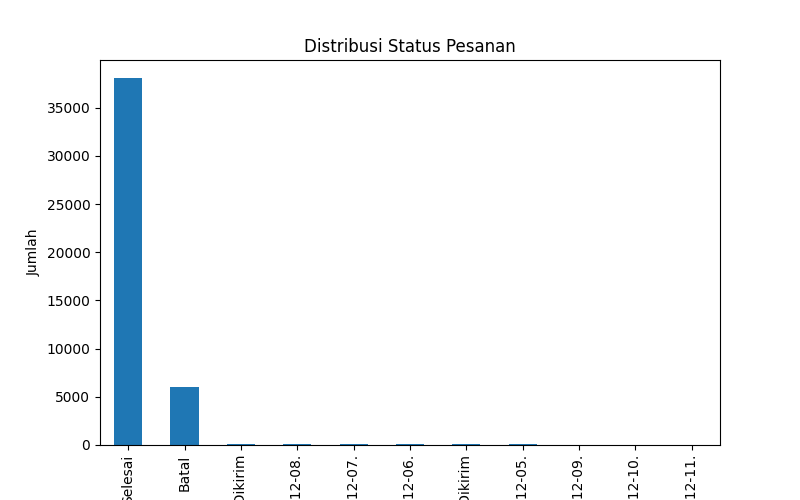
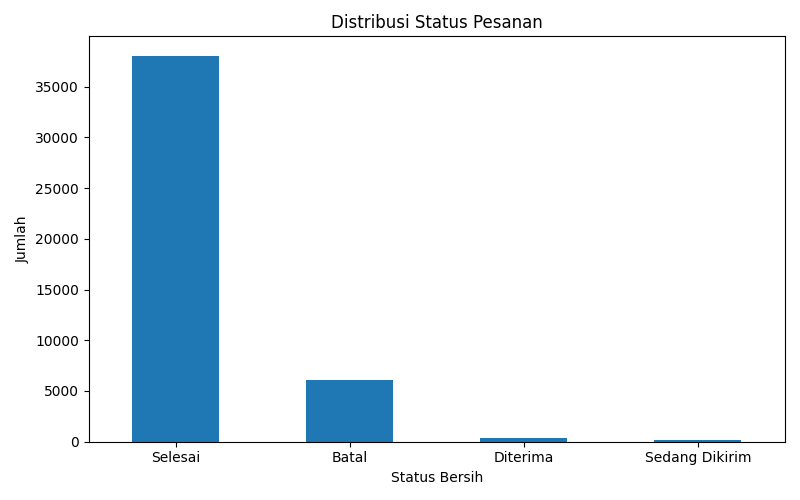
status pesanan commit message

diff --git a/ecommerce_analysis.py b/ecommerce_analysis.py
@@ -71,15 +71,39 @@ print(data.describe())
 # 4. STATUS PESANAN
 # =====================================
 
-status = data["Status Pesanan"].value_counts()
+# ==========================
+# ANALISIS STATUS PESANAN
+# ==========================
+
+data["Status Bersih"] = data["Status Pesanan"]
+
+# Gabungkan status yang mirip
+data.loc[
+    data["Status Bersih"].str.contains(
+        "Pesanan diterima",
+        na=False
+    ),
+    "Status Bersih"
+] = "Diterima"
+
+data["Status Bersih"] = data["Status Bersih"].replace(
+    {
+        "Telah Dikirim": "Sedang Dikirim"
+    }
+)
+
+status = data["Status Bersih"].value_counts()
 
 print("\nStatus Pesanan:")
 print(status)
 
 plt.figure(figsize=(8,5))
 status.plot(kind="bar")
+
 plt.title("Distribusi Status Pesanan")
 plt.ylabel("Jumlah")
+plt.xticks(rotation=0)
+
 plt.tight_layout()
 plt.savefig("status_pesanan.png")
 plt.show()